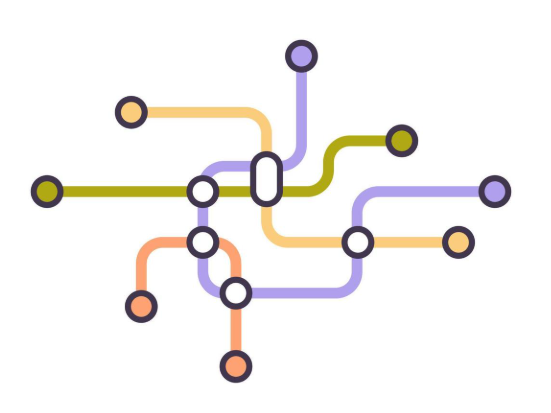
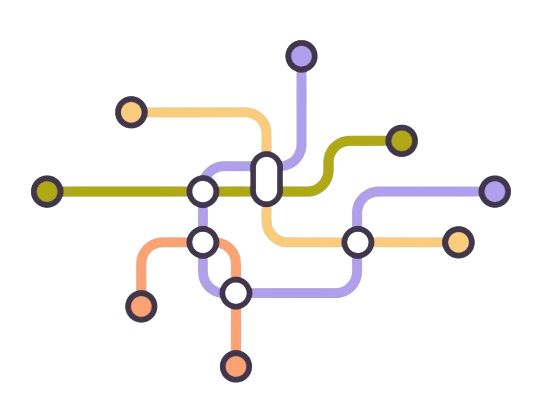
Edit - fotos

diff --git a/style/style3.css b/style/style3.css
@@ -1,10 +1,14 @@
+.cormenu{
+    color: black;
+}
+
 .red {
     background-color:  rgb(237, 239, 240);
     color: black;
     border-radius: 40px;
     margin-right: 10px;
     margin-left: 25px;
-    padding: 50px 70px 50px 70px;
+    padding: 50px 30px 50px 30px;
     justify-content: center;
     height: 70px;
 }

diff --git a/public/paginaMenuPrincipal.php b/public/paginaMenuPrincipal.php
@@ -28,30 +28,35 @@
         </div>
         <div class="lado">
             <div class="red">
-                img
-            <a href="paginaSelecioneLinhas.php"><p class="cor">Linhas</p></a>
+                <img src="../asets/imagens/meio/linhas.png" alt="" height= "100px" width= "120px">
+                <a href="paginaSelecioneLinhas.php"><p class="cormenu">Linhas</p></a>
             </div>
 
             <div class="red1">
-                <a href="paginaTrensAtivados1.php"><p class="cor">Trens</p></a>
+                <img src="../asets/imagens/meio/tremmenu.png" alt="" height= "100px" width= "120px">
+                <a href="paginaTrensAtivados1.php"><p class="cormenu">Trens</p></a>
             </div>
         </div>
         <div class="lado">
             <div class="red2">
-                <a href="paginaControledeInspeção.php"><p class="cor">Controle de inspeção</p></a>
+                <img src="../asets/imagens/meio/linhas.png" alt="" height= "100px" width= "120px">
+                <a href="paginaControledeInspeção.php"><p class="cormenu">Controle de inspeção</p></a>
             </div>
 
             <div class="red3">
-                <a href="paginaRelatorioeAnalises.php"><p class="cor">Relatório e análises </p></a>
+                <img src="../asets/imagens/meio/linhas.png" alt="" height= "100px" width= "120px">
+                <a href="paginaRelatorioeAnalises.php"><p class="cormenu">Relatório e análises </p></a>
             </div>
         </div>
         <div class="lado">
             <div class="red4">
-                <a href="paginaOuvidoriaGeral.php"><p class="cor">Ouvidoria</p></a>
+                <img src="../asets/imagens/meio/linhas.png" alt="" height= "100px" width= "120px">
+                <a href="paginaOuvidoriaGeral.php"><p class="cormenu">Ouvidoria</p></a>
             </div>
 
             <div class="red5">
-                <a href="paginaAlertaseNotificacoes1.php"><p class="cor">Alertas e Notificações</p></a>
+                <img src="../asets/imagens/meio/linhas.png" alt="" height= "100px" width= "120px">
+                <a href="paginaAlertaseNotificacoes1.php"><p class="cormenu">Alertas e Notificações</p></a>
             </div>
             <br>
         </div>
